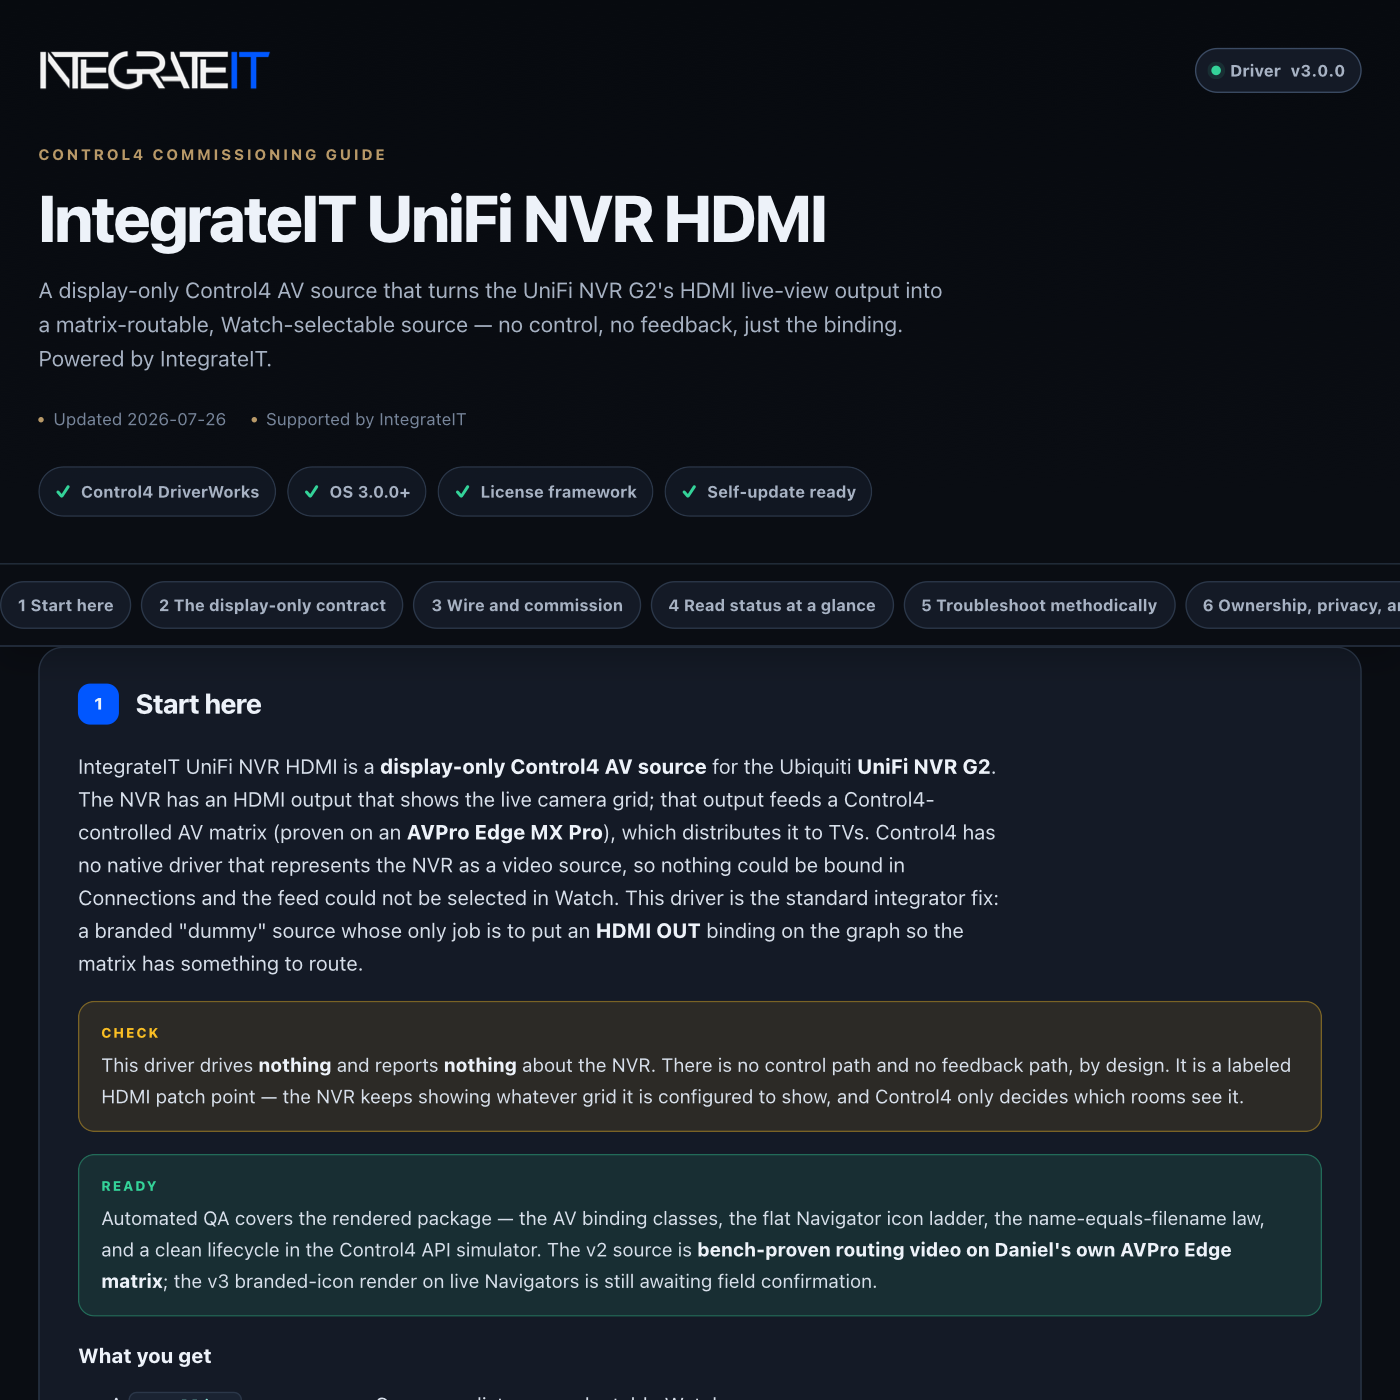
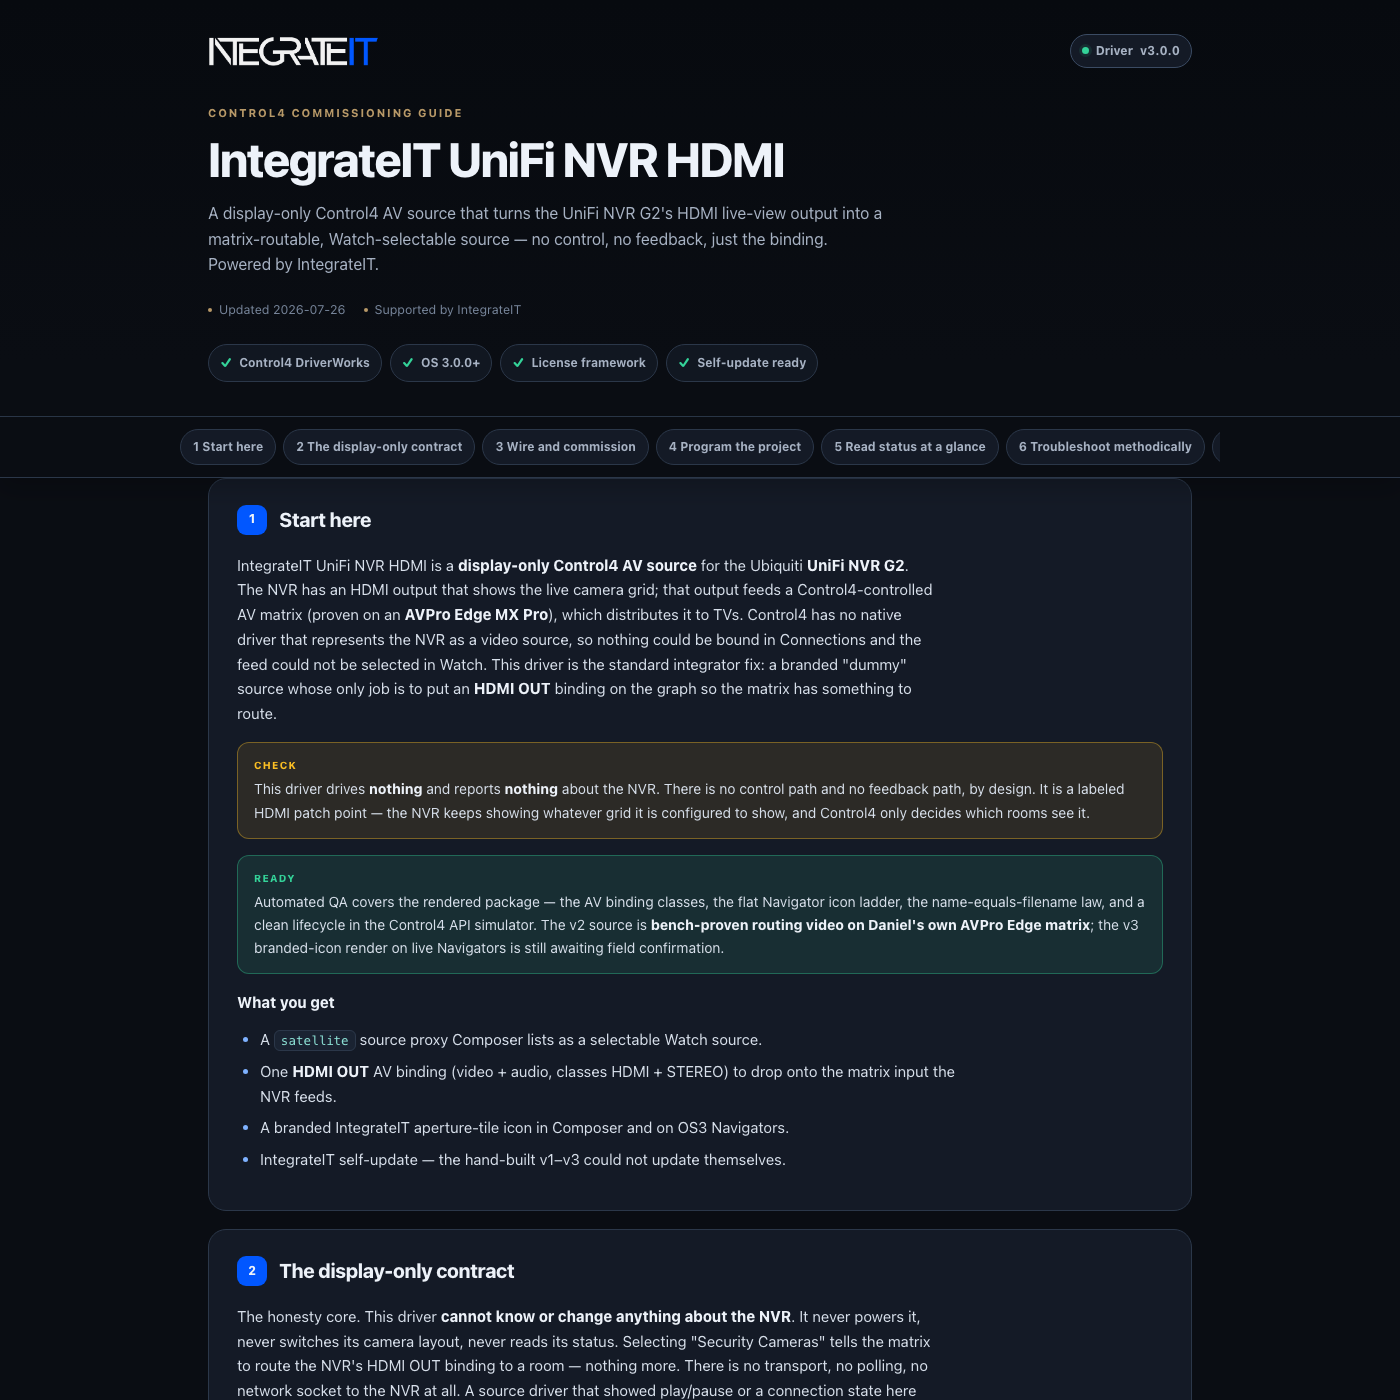
control4: publish driver channel (integrateit_unifi_nvr_hdmi 3.0.1)

Changed region(s): [[0.0, 0.0, 0.9521, 1.0], [0.7679, 0.0307, 0.9829, 0.0614], [0.86, 0.43, 1.0, 0.4607]]

diff --git a/control4/integrateit_unifi_nvr_hdmi/documentation.html b/control4/integrateit_unifi_nvr_hdmi/documentation.html
@@ -179,13 +179,13 @@ td code{white-space:normal}
     <div class="wrap">
       <div class="brandbar">
[1 lines of base64/hex data omitted]
-        <span class="version"><span class="word">Driver</span> v3.0.0</span>
+        <span class="version"><span class="word">Driver</span> v3.0.1</span>
       </div>
       <p class="eyebrow">Control4 commissioning guide</p>
       <h1>IntegrateIT UniFi NVR HDMI</h1>
       <p class="sub">A display-only Control4 AV source that turns the UniFi NVR G2's HDMI live-view output into a matrix-routable, Watch-selectable source — no control, no feedback, just the binding. Powered by IntegrateIT.</p>
       <div class="meta">
-        <span>Updated 2026-07-26</span>
+        <span>Updated 2026-07-31</span>
         <span>Supported by IntegrateIT</span>
       </div>
       <div class="readiness" aria-label="Driver capabilities">
@@ -198,7 +198,7 @@ td code{white-space:normal}
   </header>
 
   <div class="toc-wrap">
-    <nav class="toc wrap" aria-label="Documentation sections"><a href="#overview">1 Start here</a><a href="#one-way">2 The display-only contract</a><a href="#setup">3 Wire and commission</a><a href="#status">4 Read status at a glance</a><a href="#troubleshooting">5 Troubleshoot methodically</a><a href="#trust">6 Ownership, privacy, and licensing</a><a href="#reference">R Reference</a><a href="#licensing">L Licensing</a><a href="#updates">U Automatic updates</a><a href="#changelog">V Version history</a></nav>
+    <nav class="toc wrap" aria-label="Documentation sections"><a href="#overview">1 Start here</a><a href="#one-way">2 The display-only contract</a><a href="#setup">3 Wire and commission</a><a href="#programming">4 Program the project</a><a href="#status">5 Read status at a glance</a><a href="#troubleshooting">6 Troubleshoot methodically</a><a href="#trust">7 Ownership, privacy, and licensing</a><a href="#reference">R Reference</a><a href="#licensing">L Licensing</a><a href="#updates">U Automatic updates</a><a href="#diagnostics">D Diagnostics and self-test</a><a href="#changelog">V Version history</a></nav>
   </div>
 
   <main class="wrap">
@@ -230,16 +230,28 @@ td code{white-space:normal}
     <li>Add the source to each room's Watch experience. It shows in rooms as <b>Security Cameras</b> (rename per project if you like — the label is cosmetic).</li>
     <li><b>Prove it:</b> select <b>Security Cameras</b> in a room and confirm the live grid appears on the TV. If the display blanks, see Troubleshoot (EDID).</li>
   </ol>
-  <p><b>Field refresh order (Control4 fact #5 — icon caches are stubborn):</b> after any re-release, <b>Update Driver → File ▸ Refresh Navigators → force-close the mobile app / reboot T3–T4 touchscreens.</b> <code>xmlVersion</code> is bumped on every release (this is v4) so Director notices the new package; the Navigator icon cache still needs the manual nudge to drop the old tile.</p>
+  <p><b>Field refresh order (Control4 fact #5 — icon caches are stubborn):</b> after any re-release, <b>Update Driver → File ▸ Refresh Navigators → force-close the mobile app / reboot T3–T4 touchscreens.</b> <code>xmlVersion</code> is bumped on every release so Director notices the new package; the Navigator icon cache still needs the manual nudge to drop the old tile.</p>
+</section>
+
+<section class="card" id="programming" data-card="programming">
+  <h2><span class="n">4</span> Program the project</h2>
+  <p><b>There is nothing on this driver to program, and that is the design.</b> It declares no commands, no device events, and no variables — a dummy source has nothing to command and nothing to report, so a "Select Source" command or a "Cameras Live" event here would be fiction. The only programmable entries Composer shows under this device are the two shared IntegrateIT events, <code>Update Available</code> and <code>License Problem</code> (see Reference below); neither of them says anything about the NVR. <code>Status</code> reads <code>Idle</code> and stays there.</p>
+  <p>The automation lives one level up, in the two places that genuinely know this source exists:</p>
+  <ul>
+    <li><b>The room.</b> Choosing a Watch source is a <i>room</i> action in Composer Programming — program the room to select <b>Security Cameras</b> (the device's Composer name; rename it and the room action follows the new name). The room is also where you read back which source is currently selected.</li>
+    <li><b>The matrix.</b> The AV switch driver bound to this driver's <b>HDMI OUT</b> owns the real input switching and whatever feedback that switch reports. If you want an event when the cameras land on a TV, take it from the matrix or the room — never from here.</li>
+  </ul>
+  <p>One recipe of exactly that shape — <b>doorbell rings, cameras hit the theater TV:</b></p>
+  <p>Note who does the work: the doorbell driver supplies the trigger, the room performs the selection, the matrix routes the HDMI, and this driver's whole contribution is that <b>Security Cameras</b> is on the room's source list at all. Because the driver never reports anything, a "put it back" step is a timed step you write — there is no "cameras finished" event to wait on. Nothing here is license-gated either: with no actuating path, there is nothing a license could withhold.</p>
 </section>
 
 <section class="card" id="status" data-card="status">
-  <h2><span class="n">4</span> Read status at a glance</h2>
+  <h2><span class="n">5</span> Read status at a glance</h2>
   <p><b>Status</b> reads <code>Idle</code> — there is nothing else for a dummy source to report. The standard IntegrateIT properties (Driver Version, self-update, licensing) behave as in every IntegrateIT driver; see Reference. No property here reflects the NVR: the driver has no connection to it and cannot see its state.</p>
 </section>
 
 <section class="card" id="troubleshooting" data-card="troubleshooting">
-  <h2><span class="n">5</span> Troubleshoot methodically</h2>
+  <h2><span class="n">6</span> Troubleshoot methodically</h2>
   <ul>
     <li><b>"Security Cameras" is not offered in Watch</b> — the source was never bound. Re-check Connections: <b>HDMI OUT</b> must land on the matrix input the NVR feeds.</li>
     <li><b>Blank / no-signal when selected</b> — an EDID mismatch. Set that matrix input's EDID to <b>4K30</b> or <b>1080p</b>; the NVR pushes 4K and can out-run a display or a long HDMI run.</li>
@@ -249,11 +261,11 @@ td code{white-space:normal}
 </section>
 
 <section class="card" id="trust" data-card="trust">
-  <h2><span class="n">6</span> Ownership, privacy, and licensing</h2>
+  <h2><span class="n">7</span> Ownership, privacy, and licensing</h2>
   <p>Nothing leaves the controller. This driver opens no network connection, holds no credentials, and logs nothing — there is nothing for a dummy source to send, and no camera video ever passes through Control4's data path (the HDMI signal travels the AV matrix, not the network). Licensing runs in the shared IntegrateIT framework, but because the driver has <b>no actuating path, no function is license-gated</b> — a missing or invalid key never disables it. Self-update polls the IntegrateIT channel and can stage the next version for a one-click install.</p>
 <section class="card" id="reference" data-card="reference">
   <h2><span class="n">R</span> Reference</h2>
-  <p>Generated from the driver manifest at build time — always matches this build (v3.0.0).</p>
+  <p>Generated from the driver manifest at build time — always matches this build (v3.0.1).</p>
   <h3>Properties</h3>
   <table>
     <tr><th>Property</th><th>Type</th><th>Default</th><th>Description</th></tr>
@@ -279,6 +291,8 @@ td code{white-space:normal}
     <tr><td>Activate License Now <span class="pill blue">shared</span></td><td><code>ACTIVATE_LICENSE</code></td></tr>
     <tr><td>Check for Update Now <span class="pill blue">shared</span></td><td><code>CHECK_UPDATE</code></td></tr>
     <tr><td>Download &amp; Stage Update <span class="pill blue">shared</span></td><td><code>DOWNLOAD_UPDATE</code></td></tr>
+    <tr><td>Run Diagnostics <span class="pill blue">shared</span></td><td><code>RUN_DIAGNOSTICS</code></td></tr>
+    <tr><td>Run Self-Test <span class="pill blue">shared</span></td><td><code>RUN_SELF_TEST</code></td></tr>
   </table>
   <h3>Events</h3>
   <table>
@@ -332,10 +346,29 @@ td code{white-space:normal}
   moment a new build ships.</div>
 </section>
 
+<section class="card" id="diagnostics" data-card="diagnostics">
+  <h2><span class="n">D</span> Diagnostics and self-test</h2>
+  <p>Every IntegrateIT driver carries two read-only Actions for the field. <b>Run Diagnostics</b> prints
+  a report of what the driver has <i>already observed</i> — version and Lua runtime, license mode and
+  cached activation, update channel and any staged build, every armed timer with its interval, which
+  dealer-supplied properties are still empty, and the last few <code>Status</code> messages. It probes
+  nothing, sends nothing, and changes nothing, so it is safe on a live job.
+  <b>Run Self-Test</b> checks the shared layer itself — string and URL encoding, version comparison,
+  the non-finite number guard, the timer registry, and the persistence store — and ends with
+  <code>SELF-TEST PASS</code> or a per-check failure. It stays local: no network, no device commands.</p>
+  <div class="note">Neither Action is license gated, on purpose: you reach for them when a site is
+  broken, and the license may be the broken thing. Values are never printed — a key or secret is
+  reported only as <span class="pill blue">set</span> or <span class="pill amber">NOT SET</span>, so the
+  output is safe to paste into a support ticket. Both print to the Lua output window
+  (Composer &rarr; the driver's <b>Lua</b> tab).</div>
+</section>
+
     <section class="card" id="changelog" data-card="changelog">
   <h2><span class="n">V</span> Version history</h2>
   <div class="chg">
-    <div class="rel"><b>v3.0.0</b> <span class="pill green">current</span><span class="d">2026-07-26</span>
+    <div class="rel"><b>v3.0.1</b> <span class="pill green">current</span><span class="d">2026-07-31</span>
+      <ul><li>Certification pass: this driver was read end to end against its own manifest and code — every name checked for a single spelling across the manifest, the code and this guide, and every claim in the documentation verified against what the code does rather than what it intended.</li><li>The guide gained the Program the project section the documentation contract requires. It says plainly that there is nothing on this driver to program — a display-only source declares no commands, no device events and no variables, so any of those here would be fiction — and then shows where the automation actually lives: the room selects the source, the matrix routes the HDMI, and a doorbell-to-theater recipe demonstrates the shape. A stale reference to the package's internal version number was removed rather than left to go stale again.</li><li>Two latent release blockers, both found by trying to release: a test pinned the running build's version to the literal 3.0.0, and the golden-artifact comparison rewrote this driver's minimum OS version because it happened to read the same as its driver version. Either one would have failed the first patch release. Both are fixed at the root, so this driver can be updated normally from here.</li></ul></div>
+    <div class="rel"><b>v3.0.0</b><span class="d">2026-07-26</span>
       <ul><li>Factory integration of the field-proven hand-built driver, crediting the v1-v3 lineage: v2 was proven routing video on an AVPro Edge MX Pro matrix, and v2's blank icon was root-caused to the state-block-vs-flat-ladder Navigator bug and fixed in v3.</li><li>Same display-only contract: a satellite source proxy exposing one HDMI OUT binding (classes HDMI + STEREO) for the UniFi NVR G2 live-view output, with the branded aperture-tile Navigator icon ladder rendered as a flat ladder (never state blocks).</li><li>New over the hand-built lineage: self-update from the IntegrateIT channel, the packaged Documentation tab, and static + runtime + golden QA — plus the name-equals-filename controller:// URL validator this driver contributed to the whole fleet.</li><li>xmlVersion bumped to 4 (Control4 fact #5 - a re-release must bump the integer version or Navigators keep the stale icon).</li></ul></div>
   </div>
 </section>

diff --git a/control4/integrateit_unifi_nvr_hdmi/CHANGELOG.md b/control4/integrateit_unifi_nvr_hdmi/CHANGELOG.md
@@ -1,5 +1,10 @@
 # Changelog — IntegrateIT UniFi NVR HDMI
 
+## [3.0.1] - 2026-07-31
+- Certification pass: this driver was read end to end against its own manifest and code — every name checked for a single spelling across the manifest, the code and this guide, and every claim in the documentation verified against what the code does rather than what it intended.
+- The guide gained the Program the project section the documentation contract requires. It says plainly that there is nothing on this driver to program — a display-only source declares no commands, no device events and no variables, so any of those here would be fiction — and then shows where the automation actually lives: the room selects the source, the matrix routes the HDMI, and a doorbell-to-theater recipe demonstrates the shape. A stale reference to the package's internal version number was removed rather than left to go stale again.
+- Two latent release blockers, both found by trying to release: a test pinned the running build's version to the literal 3.0.0, and the golden-artifact comparison rewrote this driver's minimum OS version because it happened to read the same as its driver version. Either one would have failed the first patch release. Both are fixed at the root, so this driver can be updated normally from here.
+
 ## [3.0.0] - 2026-07-26
 - Factory integration of the field-proven hand-built driver, crediting the v1-v3 lineage: v2 was proven routing video on an AVPro Edge MX Pro matrix, and v2's blank icon was root-caused to the state-block-vs-flat-ladder Navigator bug and fixed in v3.
 - Same display-only contract: a satellite source proxy exposing one HDMI OUT binding (classes HDMI + STEREO) for the UniFi NVR G2 live-view output, with the branded aperture-tile Navigator icon ladder rendered as a flat ladder (never state blocks).
